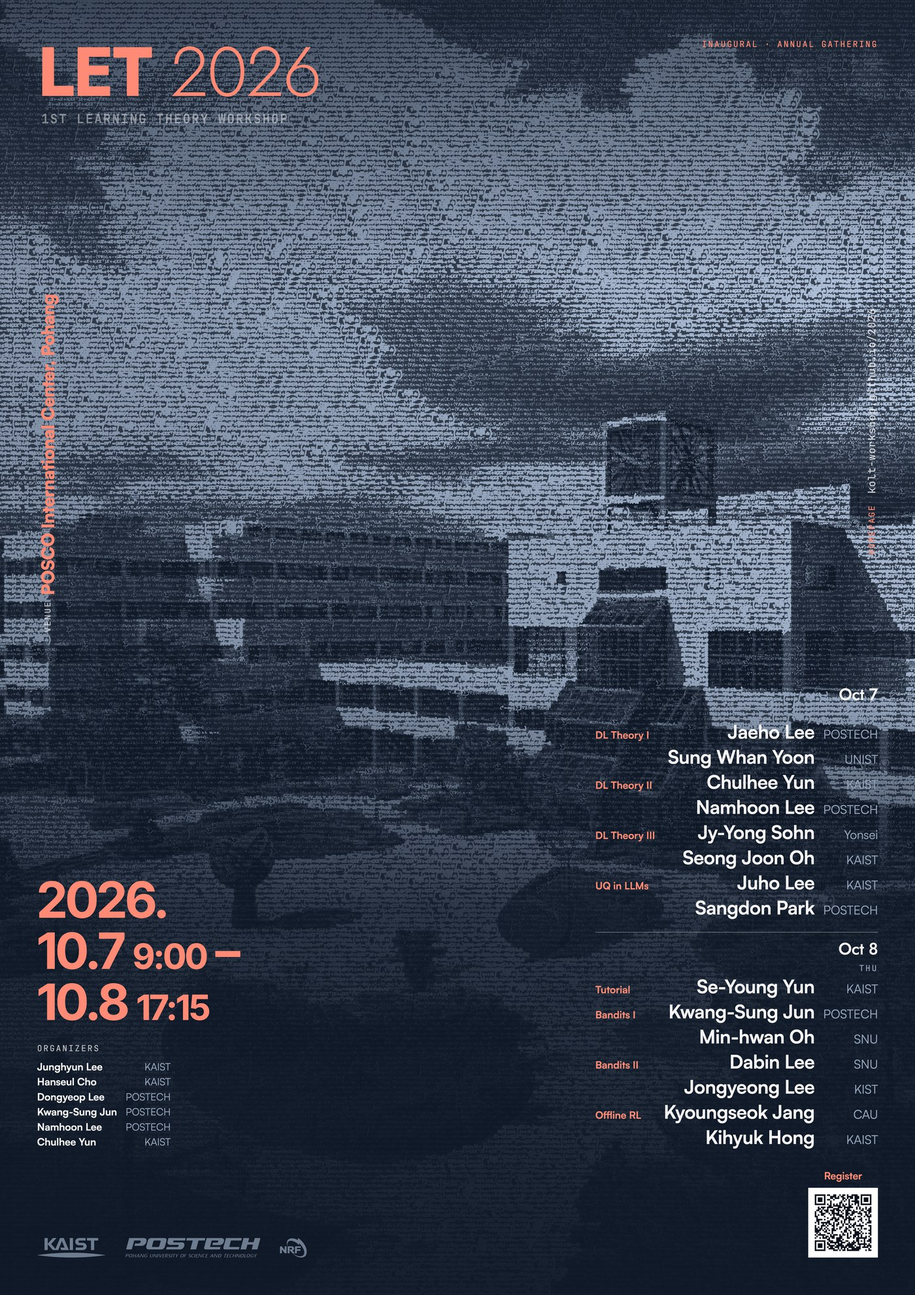
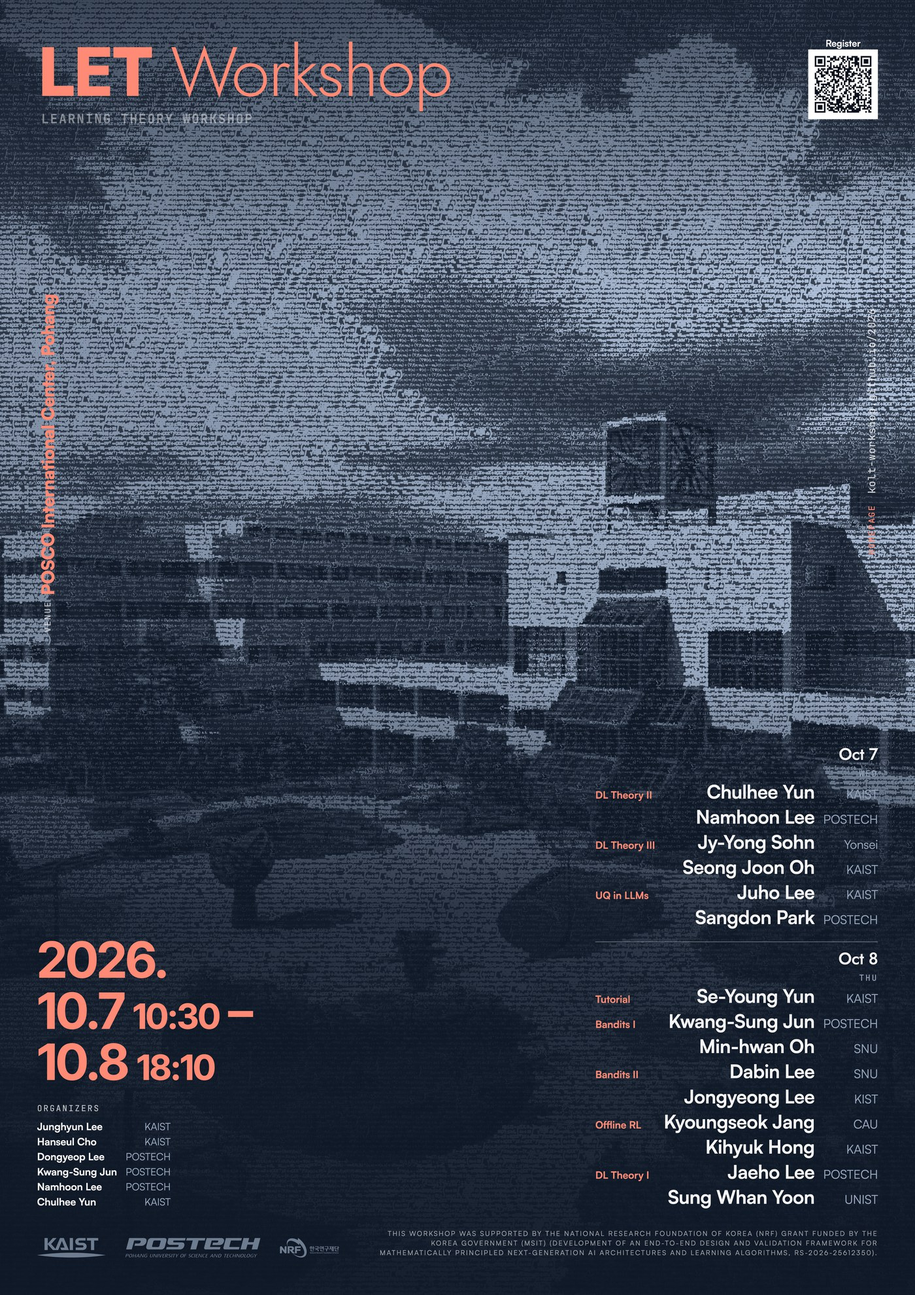
The rearranged schedule, said plainly; LET Workshop; the NRF's own sentence
The programme. Day 1 starts at 11:00 with the opening; the first talk block
moves to Day 2, into the slot Free Discussion had, with a ten-minute break in
front of it so the day ends at 18:10. Lunch is provided on both days, the
posters go up at Wednesday's afternoon break, and the poster session says that
the project's own workshop runs alongside it — as a line on the session, since
the grid places events by time and a parallel track written as its own event
would be drawn on top of this one.

And the schedule is shown plainly: every talk reads "Invited talk" with its
hour and TBD, the tutorial drawn as a talk like the rest, no chairs and no
topics. Nothing is deleted to do it — `simple: true` in data/program.yml
governs what the grid says, and the speakers are still in the file, which is
what the Speakers section is built from. Set it false and the sessions get
their names, chairs and speakers back in one move. It is applied after that
roster is built, so the two cannot disagree. data/program.detailed.yml keeps
the shape the programme had before the times were rearranged.

The day subtitles go with it: they named the subjects each day was grouped by,
and the sessions are not grouped by subject any more.

The workshop is LET Workshop rather than LET 2026 — the year is on the date,
which is the only place it needs to be. The pill above the title goes, and the
"1st" prefix on the sheet with it: both were claims a first edition cannot make
for itself.
[…]

diff --git a/tools/poster.py b/tools/poster.py
@@ -962,7 +962,17 @@ FESTIVAL = """<!doctype html>
      is a label on the square below it, not a line of the foot: against the
      edge it read as a third item in the row, over the middle of the code it
      reads as its caption. */
-  .foot .cta {{ text-align:center; }}
+  .top .cta {{ text-align:center; }}
+  /* The acknowledgement, in the wording the grant requires. It takes the width
+     the marks leave and sets small: it is a condition of funding rather than a
+     line anybody reads the poster for, and at any larger size it would be
+     arguing with the programme. */
+  .grant {{
+    flex:1; margin:0; align-self:flex-end;
+    font-family:"Satoshi","Helvetica Neue",sans-serif; font-size:3.1mm;
+    font-weight:400; line-height:1.42; color:{ink}; opacity:.62;
+    text-align:right; word-break:keep-all;
+  }}
   .foot .cta b {{ display:block; font-family:"Satoshi","Helvetica Neue",sans-serif; font-size:4.6mm;
                   font-weight:700; color:{hot}; margin-bottom:2.5mm; letter-spacing:0;
                   text-transform:none; }}
@@ -990,7 +1000,7 @@ FESTIVAL = """<!doctype html>
     <div class="top">
       <div><h1 class="mark">{mark} <span>{year}</span></h1>
         <p class="longname">{long_name_ed}</p></div>
-      <div class="stamps">{eyebrow}</div>
+      <div class="cta"><b>{cta_short}</b><div class="qr-plate">{qr}</div></div>
     </div>
     <div class="rails">
       <div class="rail"><b>Venue</b><span>{venue_name}, {city}</span></div>
@@ -1008,7 +1018,7 @@ FESTIVAL = """<!doctype html>
       </div>
       <div class="foot">
         <span class="marks">{logos}</span>
-        <div class="cta"><b>{cta_short}</b><div class="qr-plate">{qr}</div></div>
+        <p class="grant">{grant}</p>
       </div>
     </div>
   </div>
@@ -2292,6 +2302,10 @@ def main(art_path, out_path, layout="stack", photo=None, cutout=None, duotone=No
                     f'<span>{esc(site["theme"])}</span></div>'
                     if site.get("theme") else ""),
         eyebrow=esc(site.get("eyebrow") or ""),
+        # The funder's own sentence, printed as given. English only on the
+        # sheet: the Korean runs to two more lines than the foot has, and the
+        # page carries both.
+        grant=esc(((site.get("sponsors") or {}).get("note") or "").strip()),
         facts=facts,
         prog=programme_html(program, site.get("affiliations", {})),
         url=esc(site["url"].split("//")[-1].rstrip("/")),

diff --git a/build.py b/build.py
@@ -763,6 +763,37 @@ def build(name: str, variant: dict, bundle: dict, env: Environment) -> tuple[str
         # such order to borrow, so it sorts by family name, the last token in
         # these romanisations.
         roster.sort(key=lambda s: (s["name"].split()[-1].lower(), s["name"].lower()))
+    # The schedule, said plainly. Applied here rather than in the data because
+    # the data is still true: the Speakers section above is built from the same
+    # sessions, and it needs their real names to group by. Applied after that
+    # roster is built, and before the modal and the table are, so those two
+    # agree with the grid.
+    if program.get("simple"):
+        label = program.get("simple_label") or "Invited talk"
+        for day in program["days"]:
+            for e in day["events"]:
+                if e["type"] not in ("block", "tutorial"):
+                    continue
+                e["title"] = label
+                e["chair"] = None
+                # One line where the names were, so the row keeps its shape and
+                # says what is missing rather than looking finished.
+                e["lines"] = ["TBD"]
+                e["talks"] = []
+                e["notes"] = []
+                # A tutorial is a talk here, so it takes the talk's colour,
+                # its badge and its mark rather than keeping a legend row, a
+                # blue edge and a book where the others have a microphone.
+                e["type"] = "block"
+                e["emoji"] = types["block"].get("emoji")
+        types.pop("tutorial", None)
+        # The day subtitles named the subjects each day was grouped by. The
+        # sessions are not grouped by subject any more, and one of the talks
+        # has moved between days, so they describe an arrangement that is no
+        # longer there.
+        for day in program["days"]:
+            day["theme"] = None
+
     detail = [
         {
             "id": e["id"],
